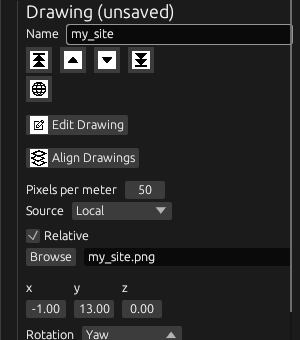
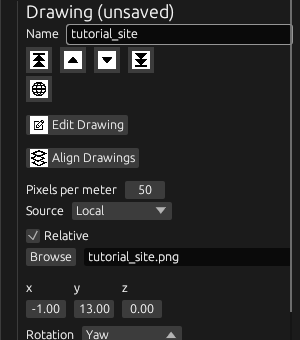
update tutorial for ease of use to create new sites. removed some unused pacakges to make trivy happy

Changed region(s): [[0.3, 0.7353, 0.6, 0.7941], [0.24, 0.0882, 0.48, 0.1176]]

diff --git a/templates/site_sim/TUTORIAL.md b/templates/site_sim/TUTORIAL.md
@@ -11,10 +11,20 @@ with two `tinyRobot`s, the API server and the web dashboard. You will:
 5. place two TinyRobots and make them robots RMF can drive,
 6. package the site, write the tinyRobot fleet config, build and run it.
 
-The input is the example floorplan shipped in this folder,
-[`example_site.png`](example_site/maps/example_site/example_site.png). The
-finished [`example_site`](example_site/) is the answer key: if you follow
-the steps, your `my_site` ends up the same.
+You build a new site package called **`tutorial_site`**, next to the shipped
+[`example_site`](example_site/):
+
+```
+templates/site_sim/
+├── example_site/    # shipped: the finished site, your answer key
+└── tutorial_site/   # you create this, starting in step 1
+```
+
+`tutorial_site` isn't in the repository. You create every file in it by
+following the steps, and git ignores it. The only input is the example
+floorplan,
+[`example_site.png`](example_site/maps/example_site/example_site.png). If you
+follow the steps, your site ends up the same as `example_site`.
 
 The tutorial uses **RMF Site Editor 0.0.3**, the current release on
 crates.io. The editor image from this repository is built from that same
@@ -98,12 +108,15 @@ as tabs. The steps are the same, but the screenshots won't match.)
 
 ## Step 1: prepare a folder and start the editor
 
-Put the floorplan in its own folder, named after your site. The editor stores
-the image path *relative to the site file*, so keep the two side by side:
+Create the package's map folder and put the floorplan in it. A package's map
+folder has this exact shape, `maps/<name>/`, with the site file and image
+inside named after the site. The editor stores the image path *relative to
+the site file*, so keep the two side by side. From the repository root:
 
 ```bash
-mkdir -p maps/my_site
-cp templates/site_sim/example_site/maps/example_site/example_site.png maps/my_site/my_site.png
+mkdir -p templates/site_sim/tutorial_site/maps/tutorial_site
+cp templates/site_sim/example_site/maps/example_site/example_site.png \
+   templates/site_sim/tutorial_site/maps/tutorial_site/tutorial_site.png
 ```
 
 Start the editor (installation:
@@ -131,13 +144,14 @@ run instead. With an NVIDIA GPU, add `--nvidia` to `distrobox create`.
 ## Step 2: create the site
 
 1. Click **Create new file**.
-2. In the save dialog, go to this repository's `maps/my_site/` and type the
-   name
-   **`my_site`**, without any extension. Then click **Save**.
+2. In the save dialog, go to `templates/site_sim/tutorial_site/maps/tutorial_site/`
+   in this repository and type the name **`tutorial_site`**, without any
+   extension. Then click **Save**. The file on disk appears the first time
+   you save (step 3), as `tutorial_site.site.json`.
    - The site's name is the file name minus its last extension. If you type
-     `my_site.site.json`, the site is called `my_site.site`, and every
-     generated file is named after that. The name can't be changed in the
-     editor afterwards.
+     `tutorial_site.site.json`, the site is called `tutorial_site.site`, and
+     every generated file is named after that. The name can't be changed in
+     the editor afterwards.
 3. You get an empty level **L1**. Press **F2** (mouse over the canvas) for
    the top-down view.
 4. In the right panel, close **Scenarios** and **Tasks** (click their
@@ -146,8 +160,8 @@ run instead. With an NVIDIA GPU, add `--nvidia` to `distrobox create`.
 ## Step 3: add the floorplan and give it a scale
 
 1. Click the 🖼 **Drawing** tool. Leave **Source** on **Local** and
-   **Relative** ticked, click **Browse**, and pick `my_site.png`. The box
-   shows just `my_site.png`: the path is relative to the site file.
+   **Relative** ticked, click **Browse**, and pick `tutorial_site.png`. The box
+   shows just `tutorial_site.png`: the path is relative to the site file.
 2. Click **Add Drawing**.
 
    ![Adding the drawing](docs/02-add-drawing.png)
@@ -155,7 +169,7 @@ run instead. With an NVIDIA GPU, add `--nvidia` to `distrobox create`.
 3. Select the drawing: open **Layers**, and under **Drawings** click the
    first (select) icon on the drawing's row. Then close **Layers** again,
    so the drawing's fields in **Inspect** come into view. Set:
-   - **Name**: `my_site`
+   - **Name**: `tutorial_site`
    - **Pixels per meter**: `50`
    - **x**: `-1`, **y**: `13`. This is where the image's **top-left corner**
      goes, in metres.
@@ -362,56 +376,80 @@ you place gets them.
 
 The robot names matter: the fleet config in step 10 refers to them.
 
-## Step 9: what you have now
+## Step 9: check the export
 
-`maps/my_site/` contains `my_site.site.json` and `my_site.png`. You don't need
-to export anything from the editor. The package build in the next step
-generates the Gazebo world and the nav graph from the `.site.json`.
+`maps/tutorial_site/` now contains `tutorial_site.site.json` and
+`tutorial_site.png`. You don't need to export anything from the editor: the
+package build generates the Gazebo world and the nav graph from the
+`.site.json`. It's still worth checking now, while mistakes are cheap to fix.
 
-To look at the generated files anyway, use **File > Export Sdf** and **File >
-Export Nav Graphs**. Or, without the GUI:
+Use **File > Export Sdf** and **File > Export Nav Graphs**, into a folder
+outside the package. Or, without the GUI, from the repository root:
 
 ```bash
-docker run --rm -v ./maps/my_site:/w -w /w --entrypoint bash quay.io/nexsoss/open-rmf:lyrical_sim-site \
-  -c 'mkdir -p out/nav_graphs && rmf_site_editor my_site.site.json --export-sdf out/ --export-nav out/nav_graphs/'
+mkdir -p /tmp/tutorial_site_out/nav_graphs
+docker run --rm --user "$(id -u):$(id -g)" -e HOME=/tmp \
+  -v "$PWD/templates/site_sim/tutorial_site/maps/tutorial_site:/w:ro" -w /w \
+  -v /tmp/tutorial_site_out:/out --entrypoint rmf_site_editor \
+  quay.io/nexsoss/open-rmf:lyrical_sim-site \
+  tutorial_site.site.json --export-sdf /out --export-nav /out/nav_graphs
 ```
 
-`out/my_site.world` should contain `<uri>model://TinyRobot</uri>` twice, with
-a `slotcar` plugin. `out/nav_graphs/tinyRobot.nav.yaml` should list your 8
+`/tmp/tutorial_site_out/tutorial_site.world` should contain
+`<uri>model://TinyRobot</uri>` twice, with a `slotcar` plugin.
+`/tmp/tutorial_site_out/nav_graphs/tinyRobot.nav.yaml` should list your 8
 waypoint names.
 
-## Step 10: make it a package and write the fleet config
+## Step 10: turn the folder into a package
 
-From the repository root, copy the example package and rename everything to
-`my_site`:
+So far `tutorial_site/` only holds the map. To build and run it, it needs the
+same supporting files as `example_site`: a package definition, a build file,
+a fleet config and a launch file. You will end up with:
+
+```
+templates/site_sim/tutorial_site/
+├── package.xml                                # 10a: the package's name and dependencies
+├── CMakeLists.txt                             # 10b: generates world + nav graphs at build time
+├── config/tutorial_site/tinyRobot_config.yaml # 10c: the fleet and its robots
+├── launch/tutorial_site.launch.xml            # 10d: starts RMF, Gazebo and the fleet adapter
+└── maps/tutorial_site/                        # steps 1-8
+    ├── tutorial_site.site.json
+    └── tutorial_site.png
+```
+
+The quickest way is to copy each file from `example_site` and change the
+name. From the repository root:
 
 ```bash
 cd templates/site_sim
-cp -r example_site my_site
-cd my_site
-mv maps/example_site maps/my_site
-mv config/example_site config/my_site
-mv launch/example_site.launch.xml launch/my_site.launch.xml
-rm maps/my_site/example_site.*
-grep -rl example_site . | xargs sed -i 's/example_site/my_site/g'
-cp ../../../maps/my_site/my_site.site.json ../../../maps/my_site/my_site.png maps/my_site/
-cd ../../..
+mkdir -p tutorial_site/config/tutorial_site tutorial_site/launch
+cp example_site/package.xml example_site/CMakeLists.txt tutorial_site/
+cp example_site/config/example_site/tinyRobot_config.yaml tutorial_site/config/tutorial_site/
+cp example_site/launch/example_site.launch.xml tutorial_site/launch/tutorial_site.launch.xml
+sed -i 's/example_site/tutorial_site/g' \
+  tutorial_site/package.xml tutorial_site/CMakeLists.txt \
+  tutorial_site/config/tutorial_site/tinyRobot_config.yaml \
+  tutorial_site/launch/tutorial_site.launch.xml
+cd ../..
 ```
 
-The package now has:
+Don't copy `example_site/maps`: your own map is already in place. Then go
+through each file to see what it does and what must match your site. For this
+tutorial the copies are already correct. For a site of your own, these are
+the parts you change.
 
-```
-my_site/
-├── CMakeLists.txt                       # generates world + nav graphs at build time
-├── package.xml
-├── maps/my_site/my_site.site.json       # your site
-├── maps/my_site/my_site.png             # its floorplan (shown in the dashboard)
-├── config/my_site/tinyRobot_config.yaml # the fleet config
-└── launch/my_site.launch.xml            # starts RMF, Gazebo and the fleet adapter
-```
+**10a. `package.xml`** names the package. `<name>` must be `tutorial_site`,
+the same as the folder. Update the `<description>` and `<maintainer>` too. The
+dependencies stay as they are: `rmf_site_cmake` generates the world, and the
+`rmf_demos*` packages and `rmf_site_map_server` run it.
 
-**The fleet config,** `config/my_site/tinyRobot_config.yaml`, describes the
-fleet to RMF. The fields that must agree with your site:
+**10b. `CMakeLists.txt`** builds the package. `project(...)` must match the
+package name. `rmf_site_generate_map_package` turns every
+`maps/<name>/<name>.site.json` into a `.world` and nav graphs by running the
+editor's export, so you never commit generated files.
+
+**10c. `config/tutorial_site/tinyRobot_config.yaml`** describes the fleet to
+RMF. The fields that must agree with your site:
 
 ```yaml
 rmf_fleet:
@@ -430,16 +468,33 @@ rmf_fleet:
   defaults. Keep `profile.footprint` in step with the robot's Collision
   Radius.
 
-**The launch file,** `launch/my_site.launch.xml`, points the fleet adapter at
-the nav graph by its file name, `nav_graphs/tinyRobot.nav.yaml`. If your graph
-has a different name, change that path to match.
+**10d. `launch/tutorial_site.launch.xml`** starts everything. It must name the
+package and map in four places:
+
+| Line | Must point at |
+|---|---|
+| `config_file` of `rmf_demos/common.launch.xml` | `maps/tutorial_site/tutorial_site.site.json` |
+| `map_package` and `map_name` of `simulation.launch.xml` | `tutorial_site` |
+| `nav_graph_file` of the fleet adapter | `maps/tutorial_site/nav_graphs/tinyRobot.nav.yaml` |
+| `config_file` of the fleet adapter | `config/tutorial_site/tinyRobot_config.yaml` |
+
+The nav graph's file name comes from the graph's name in step 5. If you named
+it something else, change that path to match.
 
 ## Step 11: build and run
 
+From the repository root, build your package, then start the stack:
+
 ```bash
-SITE_PACKAGE=my_site docker compose -f docker-compose.yaml \
-    -f templates/site_sim/compose.override.yaml up -d --build
+export SITE_PACKAGE=tutorial_site
+docker compose -f docker-compose.yaml -f templates/site_sim/compose.override.yaml build rmf-sim
+docker compose -f docker-compose.yaml -f templates/site_sim/compose.override.yaml up -d
 ```
+
+The build takes under a minute once the image is downloaded: it adds your
+package on top of the published `lyrical_sim-site` image. Don't use
+`up -d --build`, which rebuilds every image in the stack from source. In a new
+terminal, run the `export` again, or the stack starts `example_site`.
 
 The build fails with `FATAL: empty world` if the world couldn't be generated
 (see [Troubleshooting](#troubleshooting)). Once the containers are healthy:
@@ -460,8 +515,8 @@ The build fails with `FATAL: empty world` if the world couldn't be generated
 To watch the robots in Gazebo and RViz, run the simulation from a distrobox
 made from your image instead of the compose `rmf-sim` service. See
 [RMF, Gazebo and RViz, one terminal each](../../README.md#rmf-gazebo-and-rviz-one-terminal-each);
-use `localhost/open-rmf:lyrical_my_site` as the image and launch
-`my_site my_site.launch.xml`.
+use `localhost/open-rmf:lyrical_tutorial_site` as the image and launch
+`tutorial_site tutorial_site.launch.xml`.
 
 ## Adding another robot
 
@@ -488,9 +543,9 @@ use `localhost/open-rmf:lyrical_my_site` as the image and launch
 | A robot is in Gazebo but never gets tasks | Its name differs between the site and the fleet config | Make the names identical |
 | `tinyRobot.nav.yaml` is missing, or called `<Unnamed>.nav.yaml` | The graph's name box still had `<Unnamed>` in it | Rename the graph (step 5) |
 | A waypoint is missing from tasks or the nav graph | Its location is not on a lane point | Move it onto a lane point |
-| Generated files are called `my_site.site.world` | The site was created with `.site.json` typed in the name | Edit `"name"` under `"properties"` at the top of the `.site.json` |
+| Generated files are called `tutorial_site.site.world` | The site was created with `.site.json` typed in the name | Edit `"name"` under `"properties"` at the top of the `.site.json` |
 | Blank map in the dashboard | No drawing, or its image is not next to the `.site.json` | Check the drawing's path in **Inspect** (Browse again if needed) |
-| The drawing path looks like `../other/../my_site/my_site.png` | **Save As** to another folder rewrote the relative path | Select the drawing, **Browse** to the image again, save |
+| The drawing path looks like `../other/../tutorial_site/tutorial_site.png` | **Save As** to another folder rewrote the relative path | Select the drawing, **Browse** to the image again, save |
 | Something disappeared | Delete/Backspace with it selected; there is no undo | Close the editor without saving, start it again and use **Open a file** |
 | The status bar shows `The state is missing from the workflow buffer` and the Floor tool stops | The floor's first click was on an existing point (a 0.0.3 bug) | Start the floor on an empty spot, or draw the floor before the walls (step 4) |
 | Gazebo exits on start with `ODE INTERNAL ERROR … assertion "vertices" failed` | A non-static model whose mesh the editor can't load was exported as an empty collision mesh | Make that model static, or remove it |

diff --git a/templates/site_sim/README.md b/templates/site_sim/README.md
@@ -11,7 +11,7 @@ templates/site_sim/
 ├── compose.override.yaml         # runs your build as the stack's rmf-sim
 ├── TUTORIAL.md                   # step by step: floorplan PNG -> site -> robots running
 ├── docs/                         # screenshots for the tutorial
-└── example_site/                 # a ROS 2 package; rename it for your site
+└── example_site/                 # a finished site package; add yours next to it
     ├── CMakeLists.txt            # .site.json -> .world + nav graphs, at build time
     ├── package.xml
     ├── maps/example_site/example_site.site.json
@@ -41,8 +41,9 @@ docker exec -it rmf-sim bash -c 'source /home/ws_rmf/install/setup.bash && \
   ros2 run rmf_demos_tasks dispatch_patrol -p office_a meeting -n 2 --use_sim_time'
 ```
 
-To watch Gazebo instead of running headless, see "Debugging Gazebo / RViz" in
-the main README.
+To watch Gazebo instead of running headless, see
+[RMF, Gazebo and RViz, one terminal each](../../README.md#rmf-gazebo-and-rviz-one-terminal-each)
+in the main README.
 
 ## 2. Make it your site
 
@@ -50,24 +51,30 @@ the main README.
 a floorplan PNG and scaling it, drawing walls, a floor, lanes and named
 waypoints, tagging chargers, adding TinyRobots (including the **Robot**
 properties without which they never move), writing the fleet config, and
-building and running the result. It rebuilds this `example_site` from its
-floorplan, so the example doubles as the answer key.
+building and running the result. It creates a new package, `tutorial_site`,
+from the same floorplan, so `example_site` doubles as the answer key.
 
-In short:
+In short, to make a site called `tutorial_site`, next to `example_site`:
 
-1. Author `my_site.site.json` in the Site Editor, with the floorplan image
+1. Create `tutorial_site/maps/tutorial_site/` and author
+   `tutorial_site.site.json` there in the Site Editor, with the floorplan image
    next to it.
-2. Copy `example_site/` to `my_site/`, rename every `example_site`, and put
-   your `.site.json` and image in `maps/my_site/`.
-3. List the robots in `config/my_site/tinyRobot_config.yaml`. Each name must
-   match a robot in the site, and each `charger` must be a location tagged
-   Charger.
+2. Add the supporting files, copied from `example_site` with the name changed:
+   `package.xml`, `CMakeLists.txt`, `launch/tutorial_site.launch.xml` and
+   `config/tutorial_site/tinyRobot_config.yaml`.
+3. List the robots in the fleet config. Each name must match a robot in the
+   site, and each `charger` must be a location tagged Charger.
 4. Build and run:
 
    ```bash
-   SITE_PACKAGE=my_site docker compose -f docker-compose.yaml \
-       -f templates/site_sim/compose.override.yaml up -d --build
+   export SITE_PACKAGE=tutorial_site
+   docker compose -f docker-compose.yaml -f templates/site_sim/compose.override.yaml build rmf-sim
+   docker compose -f docker-compose.yaml -f templates/site_sim/compose.override.yaml up -d
    ```
+
+Packages you add here are ignored by git, so your own sites stay out of this
+repository. In a fork where you do want to commit one, add a matching
+`!templates/site_sim/<name>/` line to `.gitignore`.
 
 ## Rules worth knowing
 

diff --git a/README.md b/README.md
@@ -141,8 +141,8 @@ release, and the images build that same version. To turn a site into a
 simulated world with robots, follow the
 [tutorial](templates/site_sim/TUTORIAL.md).
 
-Keep your sites anywhere in your home directory, e.g. this repository's
-`maps/` (gitignored).
+Keep your sites anywhere in your home directory. The tutorial keeps its site
+in `templates/site_sim/tutorial_site/` (gitignored).
 
 ### Option 1: install from crates.io (no container)
 
@@ -162,7 +162,7 @@ which you run with:
 
 ```bash
 rmf_site_editor                      # welcome screen: create or open a site
-rmf_site_editor path/to/my_site.site.json
+rmf_site_editor path/to/your_site.site.json
 ```
 
 - Keep `--version 0.0.3 --locked`: they give exactly the version the
@@ -281,8 +281,8 @@ To get the Gazebo window and RViz from terminal 2 alone, launch with
 
 **Your own site:** build its image with the
 [site template](templates/site_sim/README.md), make a distrobox from that
-image (e.g. `distrobox create --name my-site --image localhost/open-rmf:lyrical_my_site`),
-and launch `my_site my_site.launch.xml` in terminal 2.
+image (e.g. `distrobox create --name tutorial-site --image localhost/open-rmf:lyrical_tutorial_site`),
+and launch `tutorial_site tutorial_site.launch.xml` in terminal 2.
 
 **Good to know:**
 
